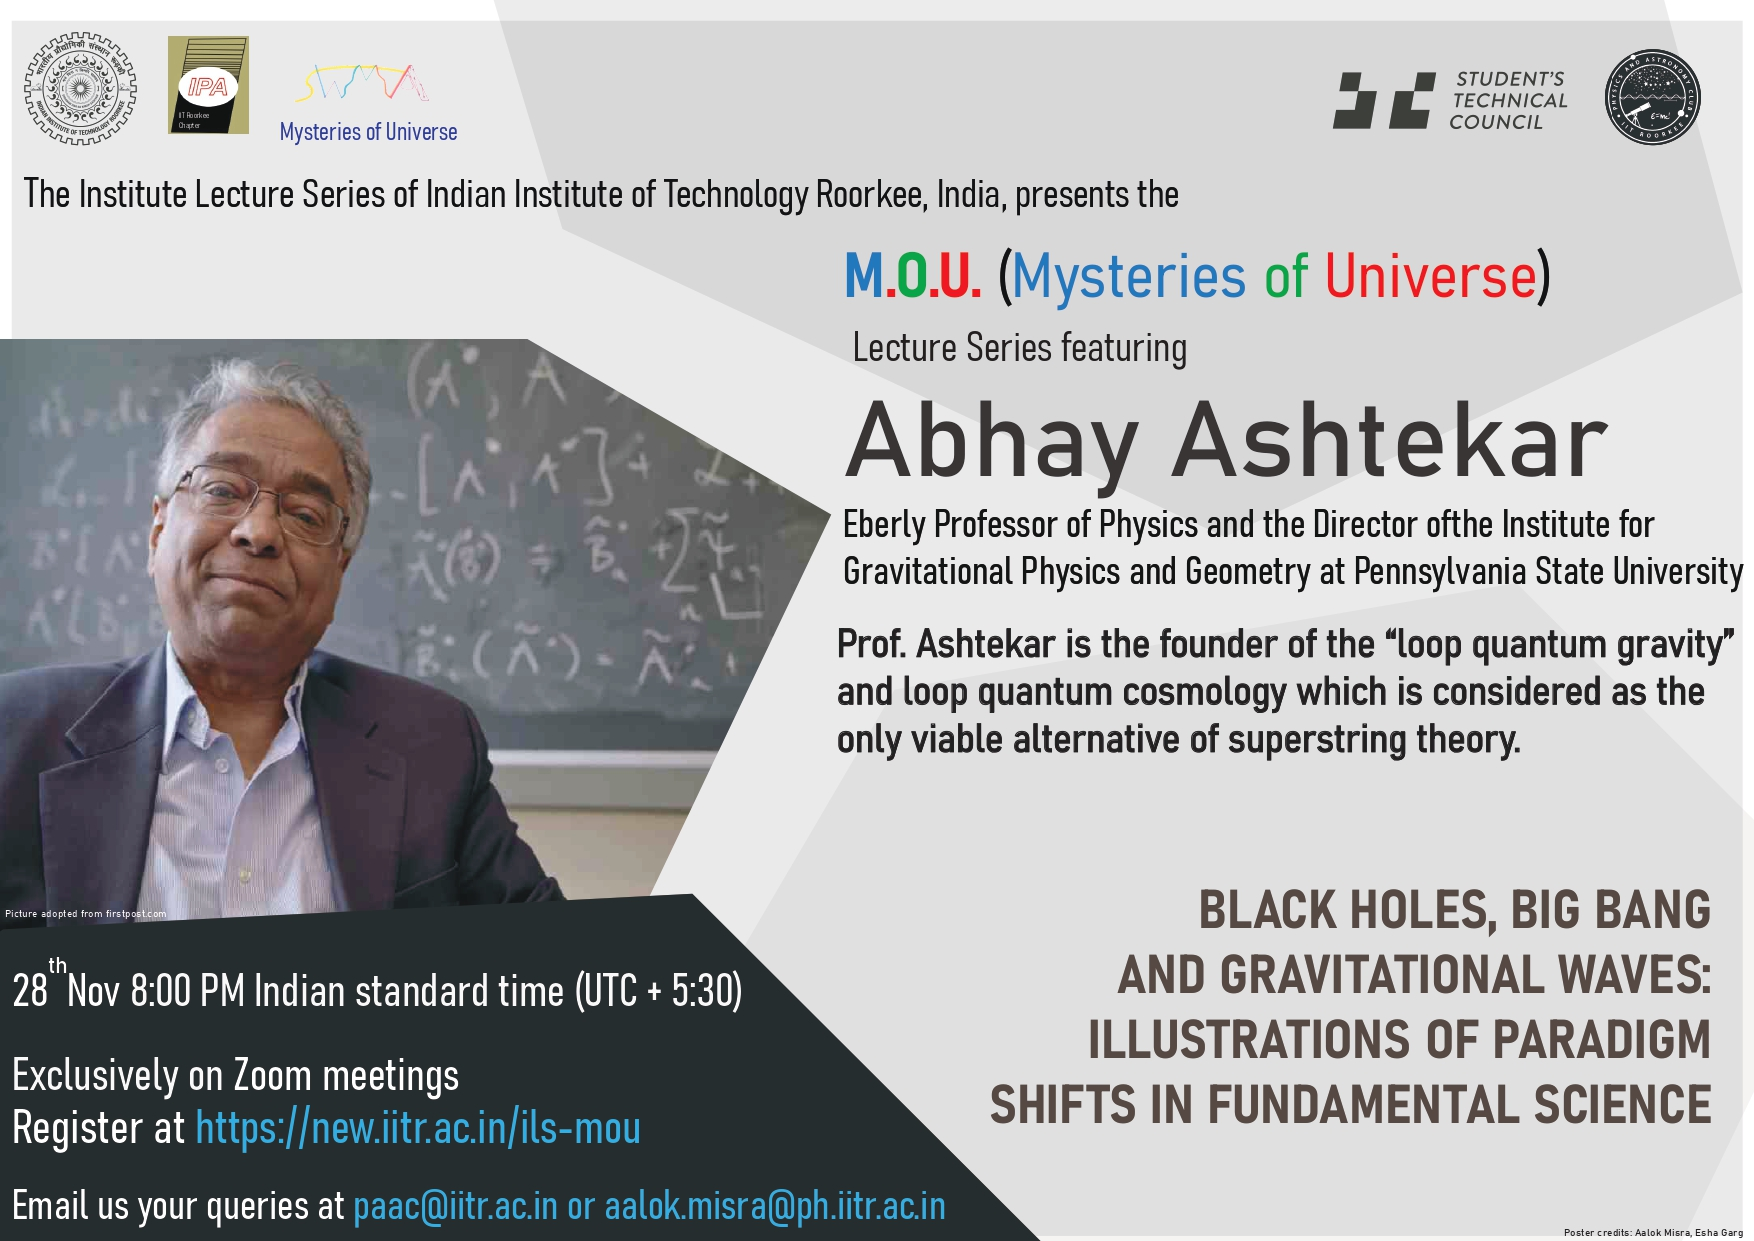
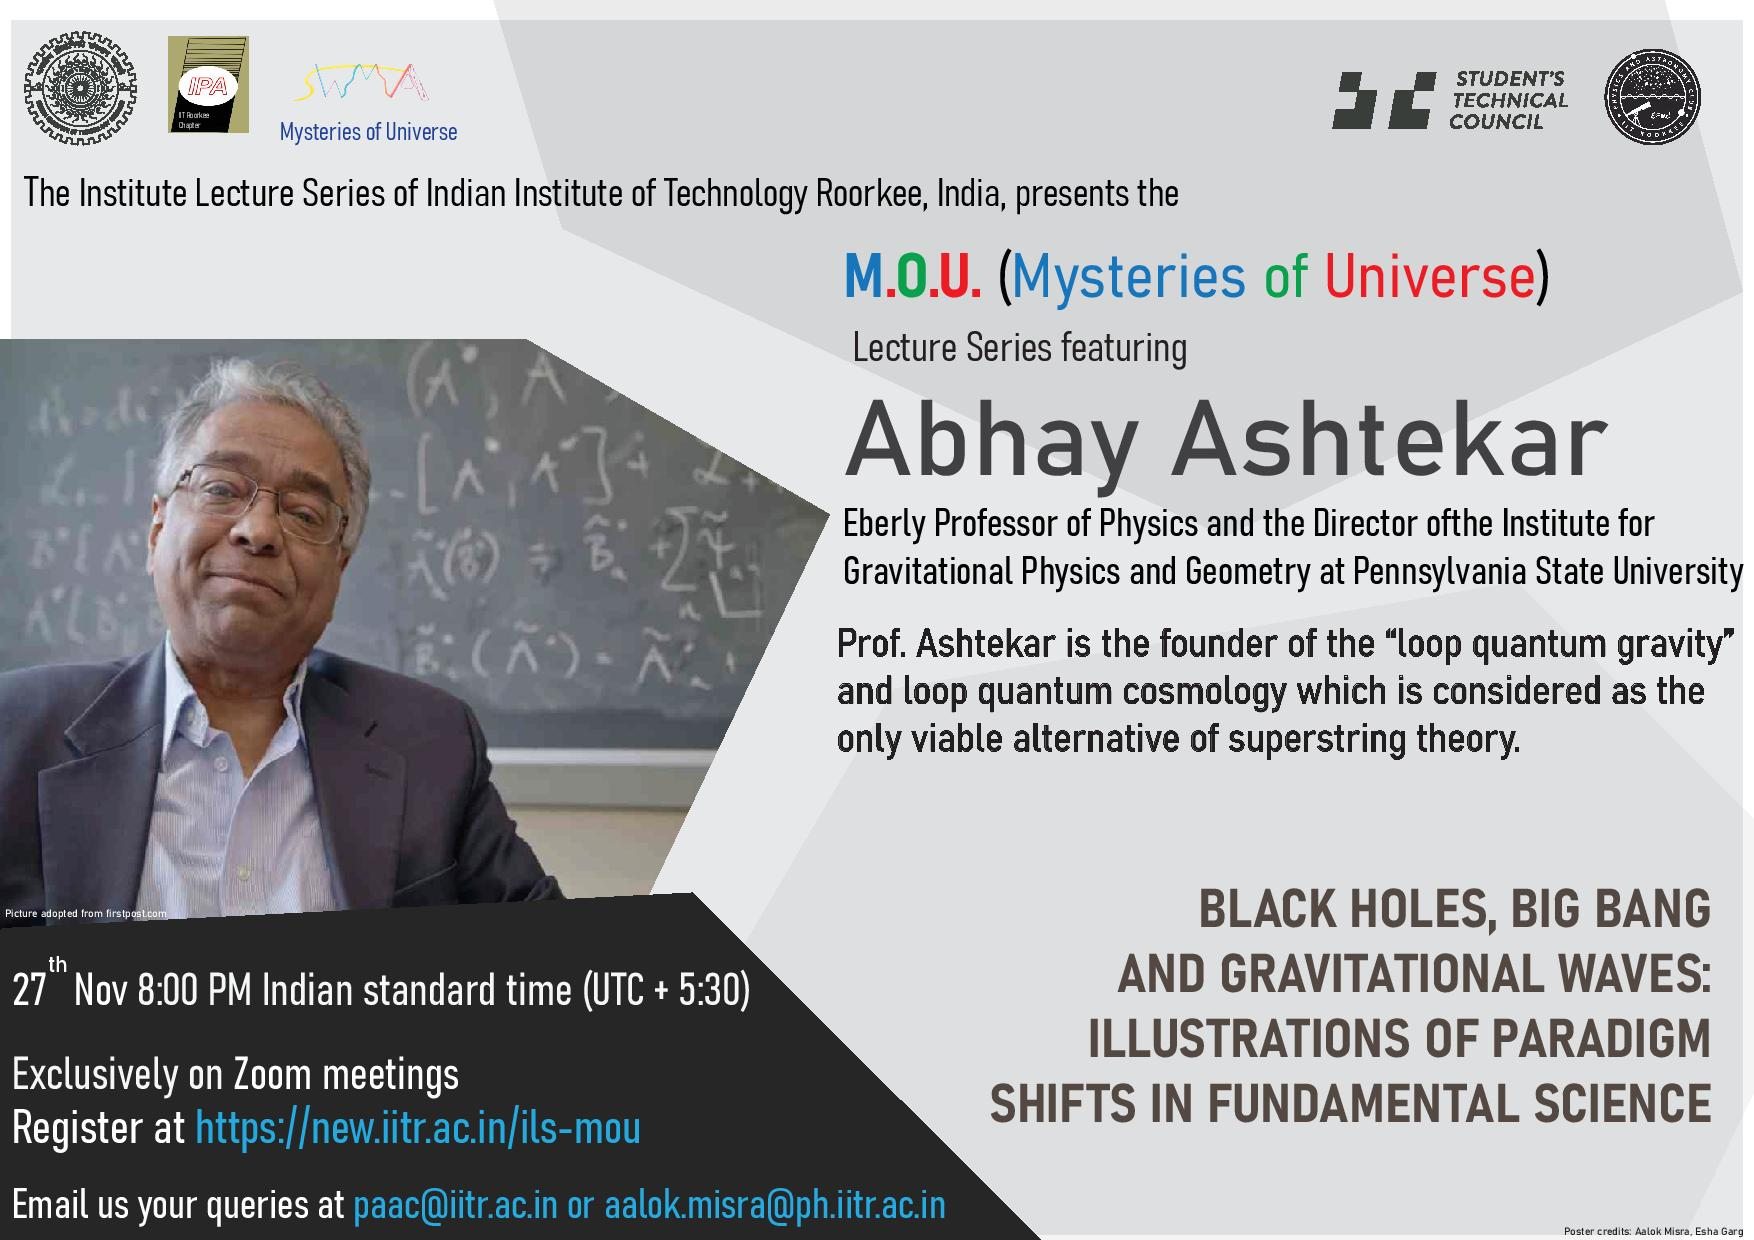
updated website

diff --git a/src/views/mainview.js b/src/views/mainview.js
@@ -31,8 +31,8 @@ class MainView extends Component {
                 <h1 size="huge" className='h1'>Mysteries of the Universe </h1>
                 <p className="date">(Oct 17 to Nov 27, 2020)</p>
                 <h2 className='h2' id="h2">
-                  Presented by Institute Lecture Series committee, in collaboration with the IIT Roorkee Chapter of the Indian Physics Association
-                  and the Student Technical Council (The Physics and Astronomy Club)
+                  Presented by Institute Lecture Series committee, in collaboration with the Indian Physics Association, Roorkee Chapter
+                  and the Student's Technical Council (The Physics and Astronomy Club)
                 </h2>
               </div>
 
@@ -72,6 +72,8 @@ class MainView extends Component {
                   abstract={abstractJS}
                   urlPoster={require('../resources/images/JSP.jpeg')}
                   urlInfo="http://pma.caltech.edu/people/john-h-schwarz"
+                  urlY="https://www.youtube.com/watch?v=TwayPGEXx1E"
+                  urlZOOM="https://zoom.us/j/98215179861"
                 />
 
                 <Speaker
@@ -112,7 +114,7 @@ class MainView extends Component {
                   urlImage={require('../resources/images/AA.jpeg')}
                   title="Black Holes, Big Bang and Gravitational Waves: Illustrations of Paradigm Shifts in Fundamental Science"
                   description="Eberly Professor of Physics and the Director of the Institute for Gravitational Physics and Geometry at Pennsylvania State University"
-                  time="Nov-28 8:00 PM IST (UTC + 5:30)"
+                  time="Nov-27 8:00 PM IST (UTC + 5:30)"
                   urlPoster={require('../resources/images/AAP.jpg')}
                   abstract={abstractAA}
                   urlInfo="http://igpg.gravity.psu.edu/people/Ashtekar/index.html"
@@ -128,9 +130,8 @@ class MainView extends Component {
             <p className="desp">
             The Institute Lecture Series Committee, 
             in collaboration with the Students' Technical Council 
-            (the Physics and Astronomy Club, in particular) and the IIT Roorkee 
-            chapter of the Indian Physics Association, is delighted to bring you 
-            a bouquet of Mysteries of the Universe (MOU) online lecture series 
+            (the Physics and Astronomy Club, in particular) and the Indian Physics Association, Roorkee Chapter, 
+            is delighted to bring you a bouquet of Mysteries of the Universe (MOU) online lecture series 
             delivered by world renowned experts who are the founding fathers of our 
             efforts in understanding concepts like black holes, unification of forces, 
             origin of the universe and quantum gravity.
@@ -150,12 +151,12 @@ class MainView extends Component {
               <Grid stackable>
                 
                   <Grid.Column width="9" floated="left">
-                    <Image.Group size='small'>
-                      <Image src={require('../resources/images/iitrlogo.png')} title="IIT Roorkee"/>
-                      <Image src={require('../resources/images/Ipa.png')} title="Indian Physics Association, Roorkee Chapter"  />
-                      <Image src={require('../resources/images/wma.png')} title="Mysteries of Universe by Prof. Aalok Misra"/>
-                      <Image src={require('../resources/images/stclogo.png')} title="Student Technical Council, IITR"  />
-                      <Image src={require('../resources/images/paaclogo.png')} circular title="Physics and Astronomy Club, IITR"/>
+                    <Image.Group padded>
+                      <Image size="tiny" src={require('../resources/images/iitrlogo.jpg')} circular title="IIT Roorkee"/>
+                      <Image size="small" src={require('../resources/images/Ipa.png')} title="Indian Physics Association, Roorkee Chapter"  />
+                      <Image size="small" src={require('../resources/images/wma.png')} title="Mysteries of Universe by Prof. Aalok Misra"/>
+                      <Image size="small" src={require('../resources/images/stclogo.png')} title="Student's Technical Council, IITR"  />
+                      <Image size="small" src={require('../resources/images/paaclogo.png')} circular title="Physics and Astronomy Club, IITR"/>
                     </Image.Group>
                   
                   </Grid.Column>
@@ -178,8 +179,6 @@ class MainView extends Component {
               </Grid>
               
             </Segment>
-  
-
         </div>
       )
     }

diff --git a/src/styles/mainview.css b/src/styles/mainview.css
@@ -18,28 +18,28 @@
 }
 
 .mainHeader{
-  padding-top: 25%;
-  font-size: 2.5em;}
+  padding-top: 25vh;
+}
 
 .h1{
   color: rgb(255, 255, 255) !important;
   font-family:'Montserrat', sans-serif;
   text-decoration:none;
-  font-size: 70px;
+  font-size: 8vh;
 }
 .h2{
   color: white !important;
   font-family: -apple-system, BlinkMacSystemFont, 'Segoe UI', Roboto, Oxygen, Ubuntu, Cantarell, 'Open Sans', 'Helvetica Neue', sans-serif;
   text-decoration:none;
-  font-size:30px;
+  font-size:3.1vh;
   font-weight: 300;
-  padding-top: 1%;
+  padding-top: 1vh;
 }
 .date{
   color: white !important;
   font-family:-apple-system, BlinkMacSystemFont, 'Segoe UI', Roboto, Oxygen, Ubuntu, Cantarell, 'Open Sans', 'Helvetica Neue', sans-serif;
   text-decoration:none;
-  font-size:30px;
+  font-size:3.1vh;
   font-weight: 300;
 }
 

diff --git a/src/components/speaker.js b/src/components/speaker.js
@@ -111,14 +111,10 @@ class Speaker extends Component {
                       <Grid.Column floated="right">
                       <Button inverted color="blue" disabled={!urlZOOM} onClick={this.handleZOOM}><span id="zoom">ZOOM Link</span></Button>
                         
-                        <Button floated="right" inverted disabled={!urlY} color="red" onClick={this.handleY} content="Youtube Link"/>
+                        <Button floated="right" inverted disabled={!urlY} color="red" onClick={this.handleY} content="YouTube Link"/>
 
                       </Grid.Column>
                       
-                        
-                      
-                    
-
                   </Grid.Row>
                 </Grid>
               </Item.Extra>
